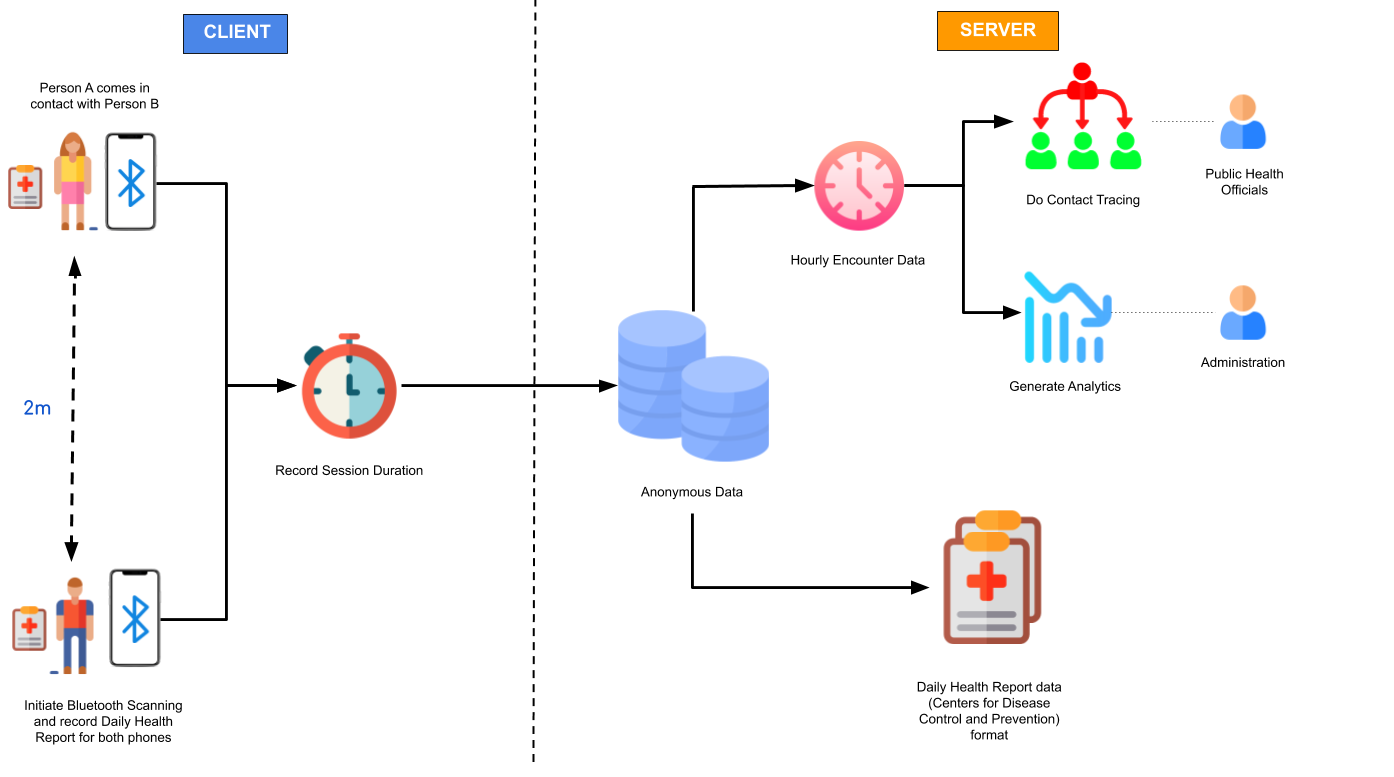
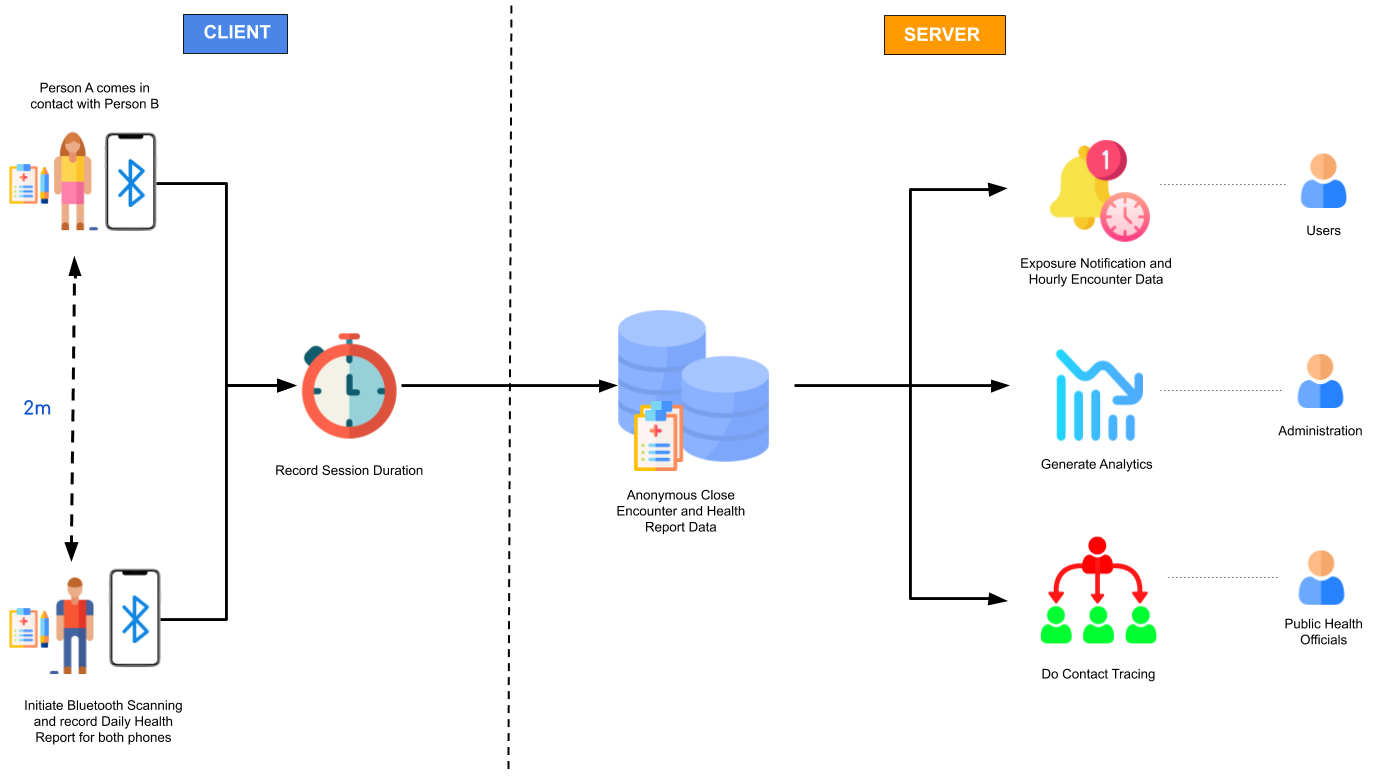
updated readme and asset images

diff --git a/app/src/main/java/com/ub/pocketcares/home/MainActivity.java b/app/src/main/java/com/ub/pocketcares/home/MainActivity.java
@@ -76,7 +76,10 @@ import com.ub.pocketcares.utility.LogTags;
 import com.ub.pocketcares.utility.PreferenceTags;
 import com.ub.pocketcares.utility.Utility;
 
+import org.json.JSONObject;
+
 import static com.ub.pocketcares.home.HomeTabFragment.createReportHealthDialog;
+import static com.ub.pocketcares.utility.PreferenceTags.APP_CLIENT_ID;
 import static com.ub.pocketcares.utility.PreferenceTags.IBM_PUSH_NOTIFICATION;
 
 public class MainActivity extends AppCompatActivity {
@@ -227,8 +230,11 @@ public class MainActivity extends AppCompatActivity {
             @Override
             public void onSuccess(String response) {
                 // Split response and convert to JSON object to display User ID confirmation from the backend
+                Log.v(IBM_PUSH_NOTIFICATION, response);
+                String[] resp = response.split("Text: ");
                 try {
-                    Log.v(IBM_PUSH_NOTIFICATION, response);
+                    JSONObject responseJSON = new JSONObject(resp[1]);
+                    Log.i(APP_CLIENT_ID, responseJSON.getString("deviceId"));
                 } catch (Exception e) {
                     e.printStackTrace();
                 }

diff --git a/app/src/main/java/com/ub/pocketcares/bluetoothBeacon/MonitoringApplication.java b/app/src/main/java/com/ub/pocketcares/bluetoothBeacon/MonitoringApplication.java
@@ -120,9 +120,6 @@ public class MonitoringApplication extends Application implements BootstrapNotif
         BeaconManager.setRssiFilterImplClass(AverageRSSIFilter.class);
         SessionManager.initializeSessionData(getApplicationContext());
         beaconManager = BeaconManager.getInstanceForApplication(this);
-        if (BuildConfig.DEBUG) {
-            BeaconManager.setDebug(true);
-        }
         beaconManager.getBeaconParsers().clear();
         beaconManager.getBeaconParsers().add(new BeaconParser().
                 setBeaconLayout(iBeacon));

diff --git a/app/src/main/java/com/ub/pocketcares/utility/PreferenceTags.java b/app/src/main/java/com/ub/pocketcares/utility/PreferenceTags.java
@@ -28,6 +28,7 @@ public class PreferenceTags {
     public static final String LATEST_HEALTH = "lastHealthState";
     public static final String USAGE_NUM_HEALTHREPORT = "usage_#healthreport";
     public static final String WARNING_LAST_TIME = "lastwarningtime";
-    public static final String IBM_PUSH_NOTIFICATION = "IbmPush";
+    public static final String IBM_PUSH_NOTIFICATION = "IBM_Push";
+    public static final String APP_CLIENT_ID = "App_Client_ID";
 
 }

diff --git a/README.md b/README.md
@@ -16,11 +16,11 @@ PocketCare S is designed to report social distance information without collectin
 2. [The Architecture](#the-architecture)
 3. [Getting Started](#getting-started)
 4. [How does PocketCare S Work?](#how-does-pocketcare-s-work)
-5. [Built With](#built-with)
-6. [Project Road Map](#project-road-map)
-7. [Additional Information](#additional-information)
-8. [License](#license)
-9. [Acknowledgments](#acknowledgements)
+6. [Built With](#built-with)
+7. [Project Road Map](#project-road-map)
+8. [Additional Information](#additional-information)
+9. [License](#license)
+10. [Acknowledgments](#acknowledgements)
 
 ## Demo Video 
 
@@ -33,24 +33,24 @@ PocketCare S is designed to report social distance information without collectin
 
 ## Getting Started 
 
-**Due to emulators not supporting bluetooth, close encounter detection will not work on emulators.**
+**Due to emulators not supporting Bluetooth, close encounter detection will not work on emulators.**
 
 ### Prerequisites
 
 Before you begin, make sure you satisfy the following requirements:
 
-1. You are running this on a physical android device.
-2. The device should at least be running on [android sdk version 21](https://developer.android.com/studio/releases/platforms#5.0) (Android L).
+1. You are running this on a physical Android device.
+2. The device should at least be running on [Android sdk version 21](https://developer.android.com/studio/releases/platforms#5.0) (Android L).
 3. The device should have Bluetooth LE support. More details about this requirement can be found [here](#how-does-pocketcare-s-work). 
 
-As long as you run this on any modern android device, the application should work properly. You can check the Bluetooth LE compatibility of your device [here](https://altbeacon.github.io/android-beacon-library/beacon-transmitter-devices.html). 
+As long as you run this on any modern Android device, the application should work properly. You can check the Bluetooth LE compatibility of your device [here](https://altbeacon.github.io/android-beacon-library/beacon-transmitter-devices.html). 
 
 
 ### Running PocketCare S using Android Studio
 
 1. Open the project in Android Studio.
 2. Wait for Gradle build to finish.
-3. Connect your android device to your computer and make sure you have USB debugging turned on. You can follow this [article](https://developer.android.com/studio/debug/dev-options#enable) to enable usb debugging.  
+3. Connect your Android device to your computer and make sure you have USB debugging turned on. You can follow this [article](https://developer.android.com/studio/debug/dev-options#enable) to enable usb debugging.  
 4. The application is already configured with the IBM server URL. If you want to run server on your local machine follow the PocketCareS-Server setup documentation and replace the **serverHost** variable in [ServerHelper](app/build/intermediates/javac/debug/classes/com/ub/pocketcares/network/ServerHelper.class) java file with your URL. 
 ```java
     private final static String serverHost = "YOUR_SERVER_URL";
@@ -59,7 +59,7 @@ As long as you run this on any modern android device, the application should wor
 
 ### Running PocketCare S using an APK 
 
-1. On your android device, make sure you have enabled. You can follow this [article](https://www.androidcentral.com/unknown-sources) to enable it. 
+1. On your Android device, make sure you have enabled. You can follow this [article](https://www.androidcentral.com/unknown-sources) to enable it. 
 2. Download the APK from here. 
 3. After the APK is downloaded, tap to install it and run PocketCare S.
 
@@ -70,9 +70,9 @@ Once the application starts, follow the on-boarding process and read how PocketC
 ### Key Highlights (Mobile Application)
 
 1. Close encounter data will be displayed in the mobile application after a close encounter session starts. A close encounter session starts when two people are within **2 meters** for at least **5 minutes**. 
-2. The **virtual bluetooth name** changes every hour to ensure **user privacy**. 
-3. Data upload to the server takes place every hour.
-4. Data is stored in user's phone for a maximum of 14 days. 
+2. The **virtual bluetooth name** changes **every hour** to ensure **user privacy**. 
+3. Data upload to the server takes place **every hour**.
+4. Data is stored in user's phone for a **maximum of 14 days**. 
 
 ### Detailed Architecture 
 
@@ -86,13 +86,31 @@ PocketCare S has made significant technological advances compared to other solut
 
 PocketCare S cares values the security and privacy of its users. The app does not collect any private information about an individual person.  All the data collected is anonymous and will not reveal any personally identifiable information. An Infographic with this information can be found [here](https://engineering.buffalo.edu/content/dam/engineering/computer-science-engineering/images/pocketcare/PocketCareS.pdf).
 
+### Getting App Client ID for Exposure Notification
+
+PocketCare S Android application can get exposure notification from the web portal. You can learn more about the process [here](). This is still an experimental feature and a work in progress this is why you would need to get the App Client ID from the Android application itself to notify the user. You can do this by following the given directions:
+
+#### Using Android Studio
+
+1. Open the PocketCare S Android project in Android Studio. 
+2. Connect the android device to your computer with the application run. If it is not running, click on the play button and run the application. 
+3. In the bottom of the screen, click on log cat and in the search box paste *App_Client_ID*. This is the tag used to filter the ADB log and get the logged value of App Client.
+4. Copy this value of App Client ID and proceed with the exposure notification [documentation](). 
+
+#### Using ADB
+
+1. Make sure you have ADB installed in your system. Follow this [guide](https://www.xda-developers.com/install-adb-windows-macos-linux/) to install ADB in your system.
+2. Connect your phone to the computer (make sure USB debugging is turned on and the application is running) and open your favorite terminal. 
+3. Type ***adb devices*** and make sure your phone is in the "List of attached devices".
+4. Now to get the value of App Client ID from the logcat type ***adb logcat -s App_Client_ID***.
+5. Copy this value of App Client ID and proceed with the exposure notification [documentation](). 
 
 **For a more detailed description, refer to the [additional information](#additional-information) section.**
 
 
 ## Built With 
 
-In this submission, we have used IBM’s Cloud **Red Hat OpenShift** to deploy our server (using **OpenJDK 8**), database (using **MongoDB**), the web portal (using **Node JS Server**) and **IBM Push Notification Service** from **IBM Cloud** in the android application of PocketCare S as a proof of concept. In the future, we will consider integrating other IBM services into the PocketCare S solution.
+In this submission, we have used IBM’s Cloud **Red Hat OpenShift** to deploy our server (using **OpenJDK 8**), database (using **MongoDB**), the web portal (using **Node JS Server**) and **IBM Push Notification Service** from **IBM Cloud** in the Android application of PocketCare S as a proof of concept. In the future, we will consider integrating other IBM services into the PocketCare S solution.
 
 ## Project Road Map 
 
@@ -114,4 +132,4 @@ Special thanks to all who helped bring the project to fruition:
 
 Sourav Samanta, Rishabh Joshi, Jeetendra Gan, Shanelle Ileto, Aritra Paul, Dr. Peter Winkelstein, Dr. Matthew R. Bonner, Kevin Wang, Chen Yuan, Dheeraj Bhatia, Latheeshwarraj Mohanraj, Dr. Wen Dong, Dr. Tong Guan, Dr. Marina Blanton, Sasha Shapiro, Stephen Fung
 
-And our deepest gratitude for the support of University at Buffalo.
+And our deepest gratitude for the support of **University at Buffalo**.
